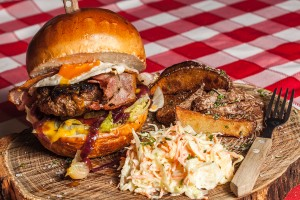
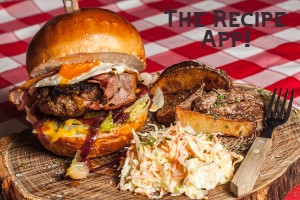
update

Changed region(s): [[0.54, 0.03, 0.96, 0.24]]

diff --git a/testingJson/index.html b/testingJson/index.html
@@ -1,0 +1,36 @@
+<!DOCTYPE html>
+<html lang="en">
+
+<head>
+    <meta charset="UTF-8">
+    <meta name="viewport" content="width=device-width, initial-scale=1.0">
+    <meta http-equiv="X-UA-Compatible" content="ie=edge">
+    <title>JSON Test</title>
+</head>
+
+<body>
+    <div id="myData"></div>
+    <script>
+        fetch('/people.json')
+            .then(function (response) {
+                return response.json();
+            })
+            .then(function (data) {
+                appendData(data);
+            })
+            .catch(function (err) {
+                console.log('error: ' + err);
+            });
+
+        function appendData(data) {
+            var mainContainer = document.getElementById("myData");
+            for (var i = 0; i < data.length; i++) {
+                var div = document.createElement("div");
+                div.innerHTML = 'Name: ' + data[i].firstName + ' ' + data[i].lastName;
+                mainContainer.appendChild(div);
+            }
+        }
+    </script>
+</body>
+
+</html>

diff --git a/RecipeApp/recipe.css b/RecipeApp/recipe.css
@@ -15,7 +15,7 @@
 .topnav button {
     background-color: #c4a287;
     border: solid 1px #b07156;
-    color: white;
+    color: #3b2731;
     padding: 10px;
     text-align: center;
     text-decoration: none;
@@ -62,29 +62,6 @@ h2 {
     text-align: center;
 }
 
-#userIngredient {
-    width: 75%;
-    padding: 12px 20px;
-    margin: 8px 0;
-    box-sizing: border-box;
-    font-size: 2em;
-    border-radius: 12px;
-}
-
-#ingredientSubmit {
-    background-color: #ab4e68;
-    border: solid 1px #533745;
-    color: white;
-    padding: 17px;
-    text-align: center;
-    text-decoration: none;
-    display: inline-block;
-    font-size: 16px;
-    margin: 4px 2px;
-    cursor: pointer;
-    border-radius: 12px;
-}
-
 #picture {
     display: block;
     width: 75%;
@@ -94,4 +71,5 @@ h2 {
 
 footer {
     padding: 20px;
+    color: #3b2731;
 }

diff --git a/RecipeApp/index.html b/RecipeApp/index.html
@@ -9,7 +9,7 @@
 </head>
 <body class="background">
     <header>
-        <img src="images/heroImage.jpg" alt="hamburger and all of the fixings" class="heroPic">
+        <img src="images/heroImagesm.jpg" alt="hamburger and all of the fixings" class="heroPic">
         <h1>The Recipe App!</h1>
         <hr>
     </header>
